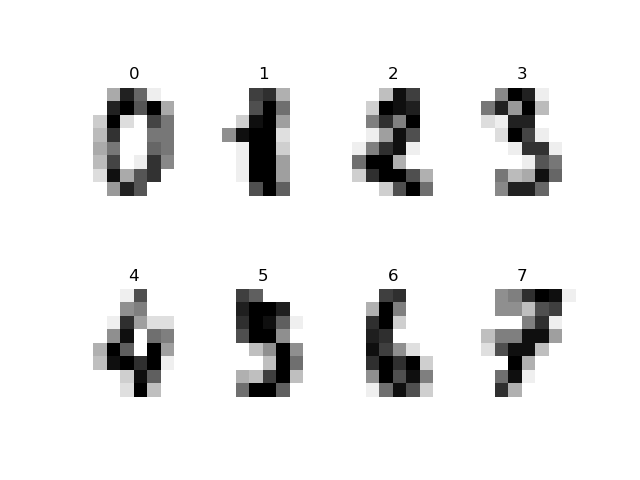
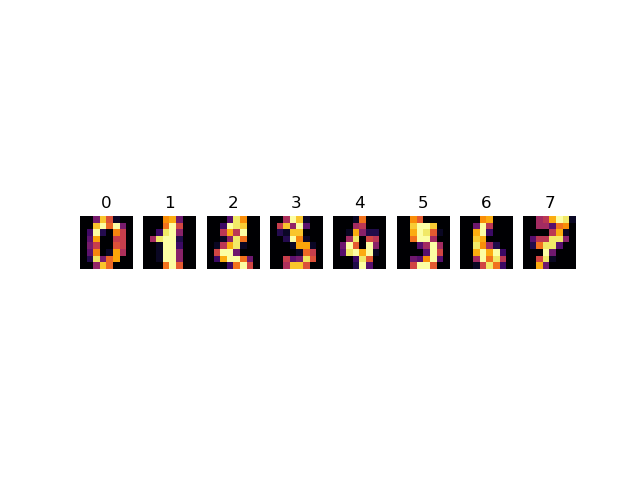
Updated

Changed region(s): [[0.125, 0.125, 0.9062, 0.8438]]

diff --git a/ML/Day6_Nov16/q1.py b/ML/Day6_Nov16/q1.py
@@ -8,9 +8,9 @@ X=data.images
 y=data.target
 ilabels=list(zip(X,y))
 for index,(image,label) in enumerate(ilabels[:8]):
-	plt.subplot(2,4,index+1)
+	plt.subplot(1,8,index+1)
 	plt.axis('off')
-	plt.imshow(image,cmap=plt.cm.gray_r,interpolation='nearest')
+	plt.imshow(image,cmap='inferno',interpolation='nearest')
 	plt.title(label)
 plt.show()
 print(X.shape)
